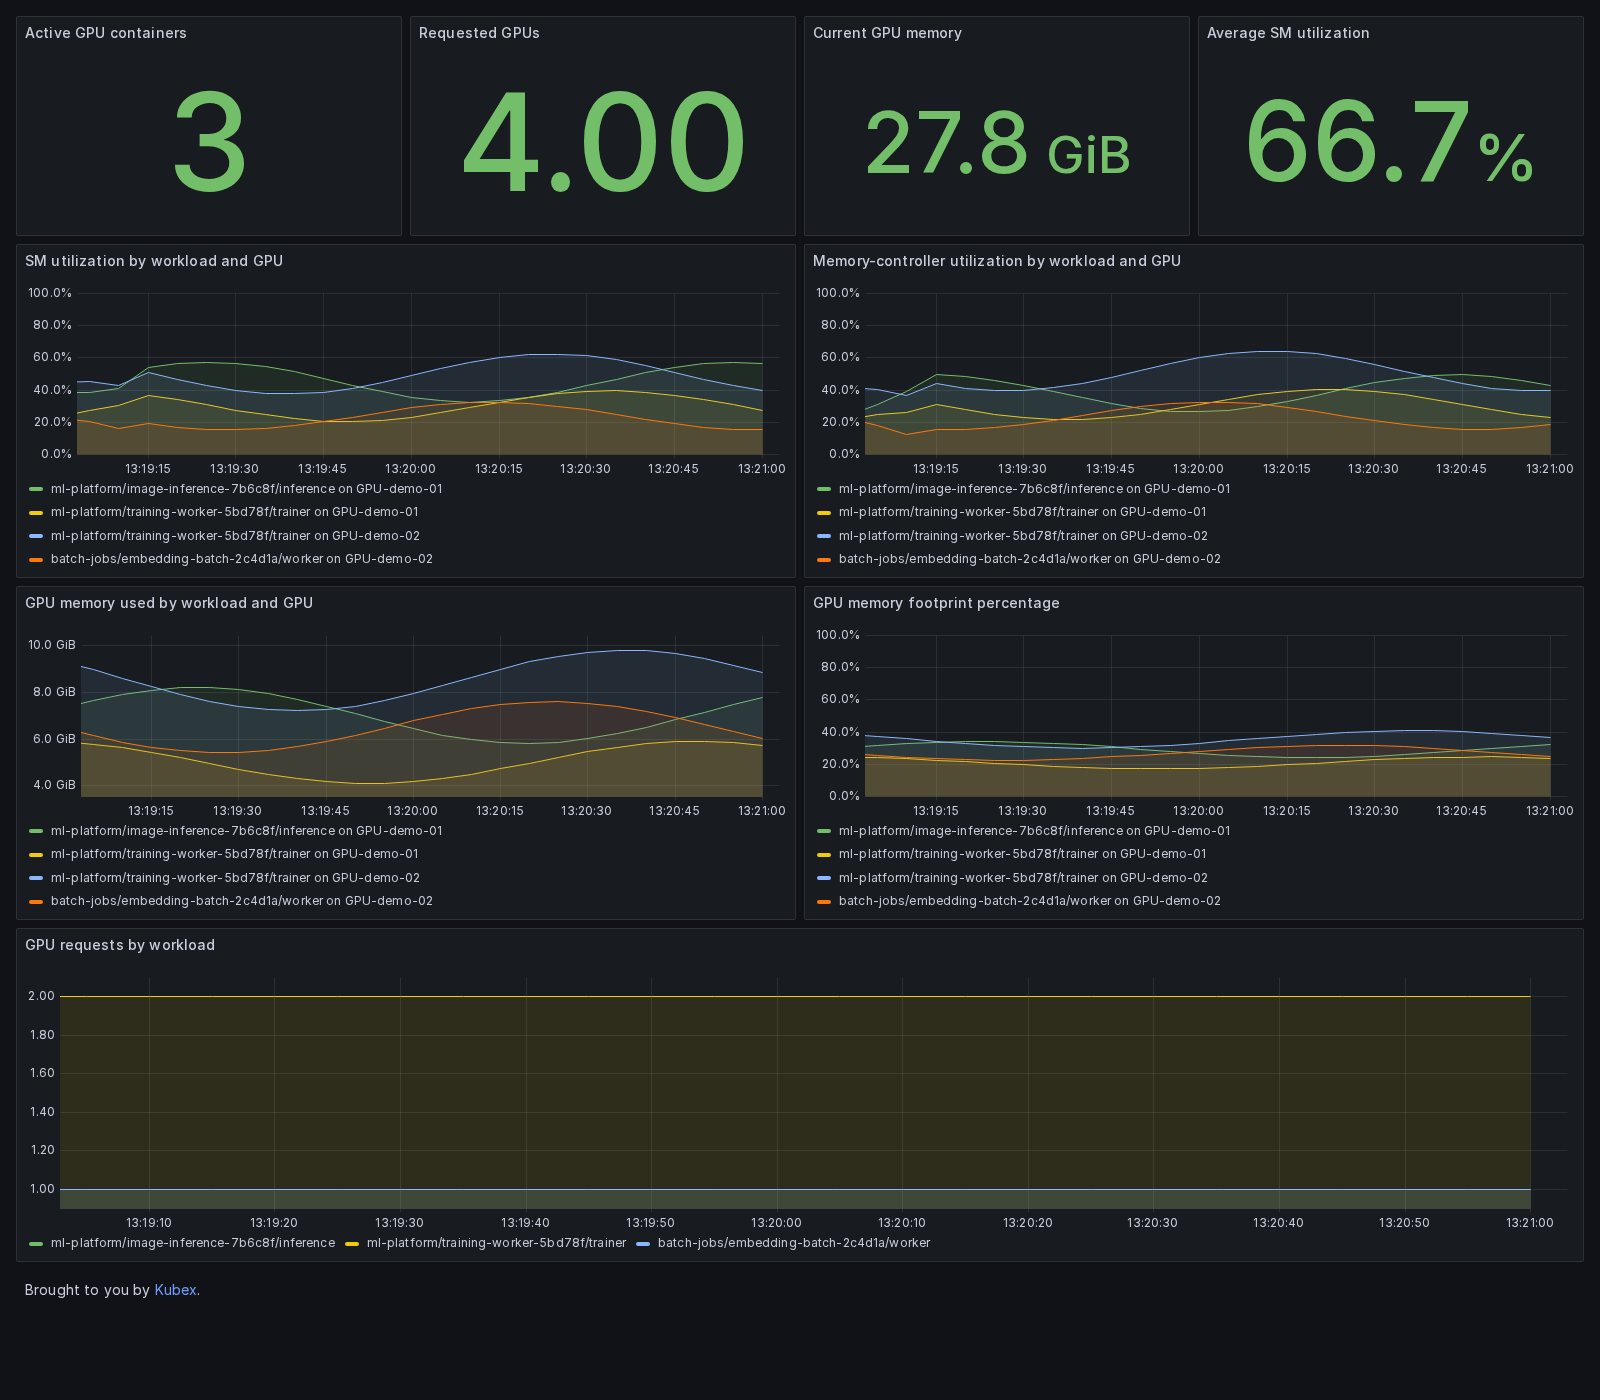
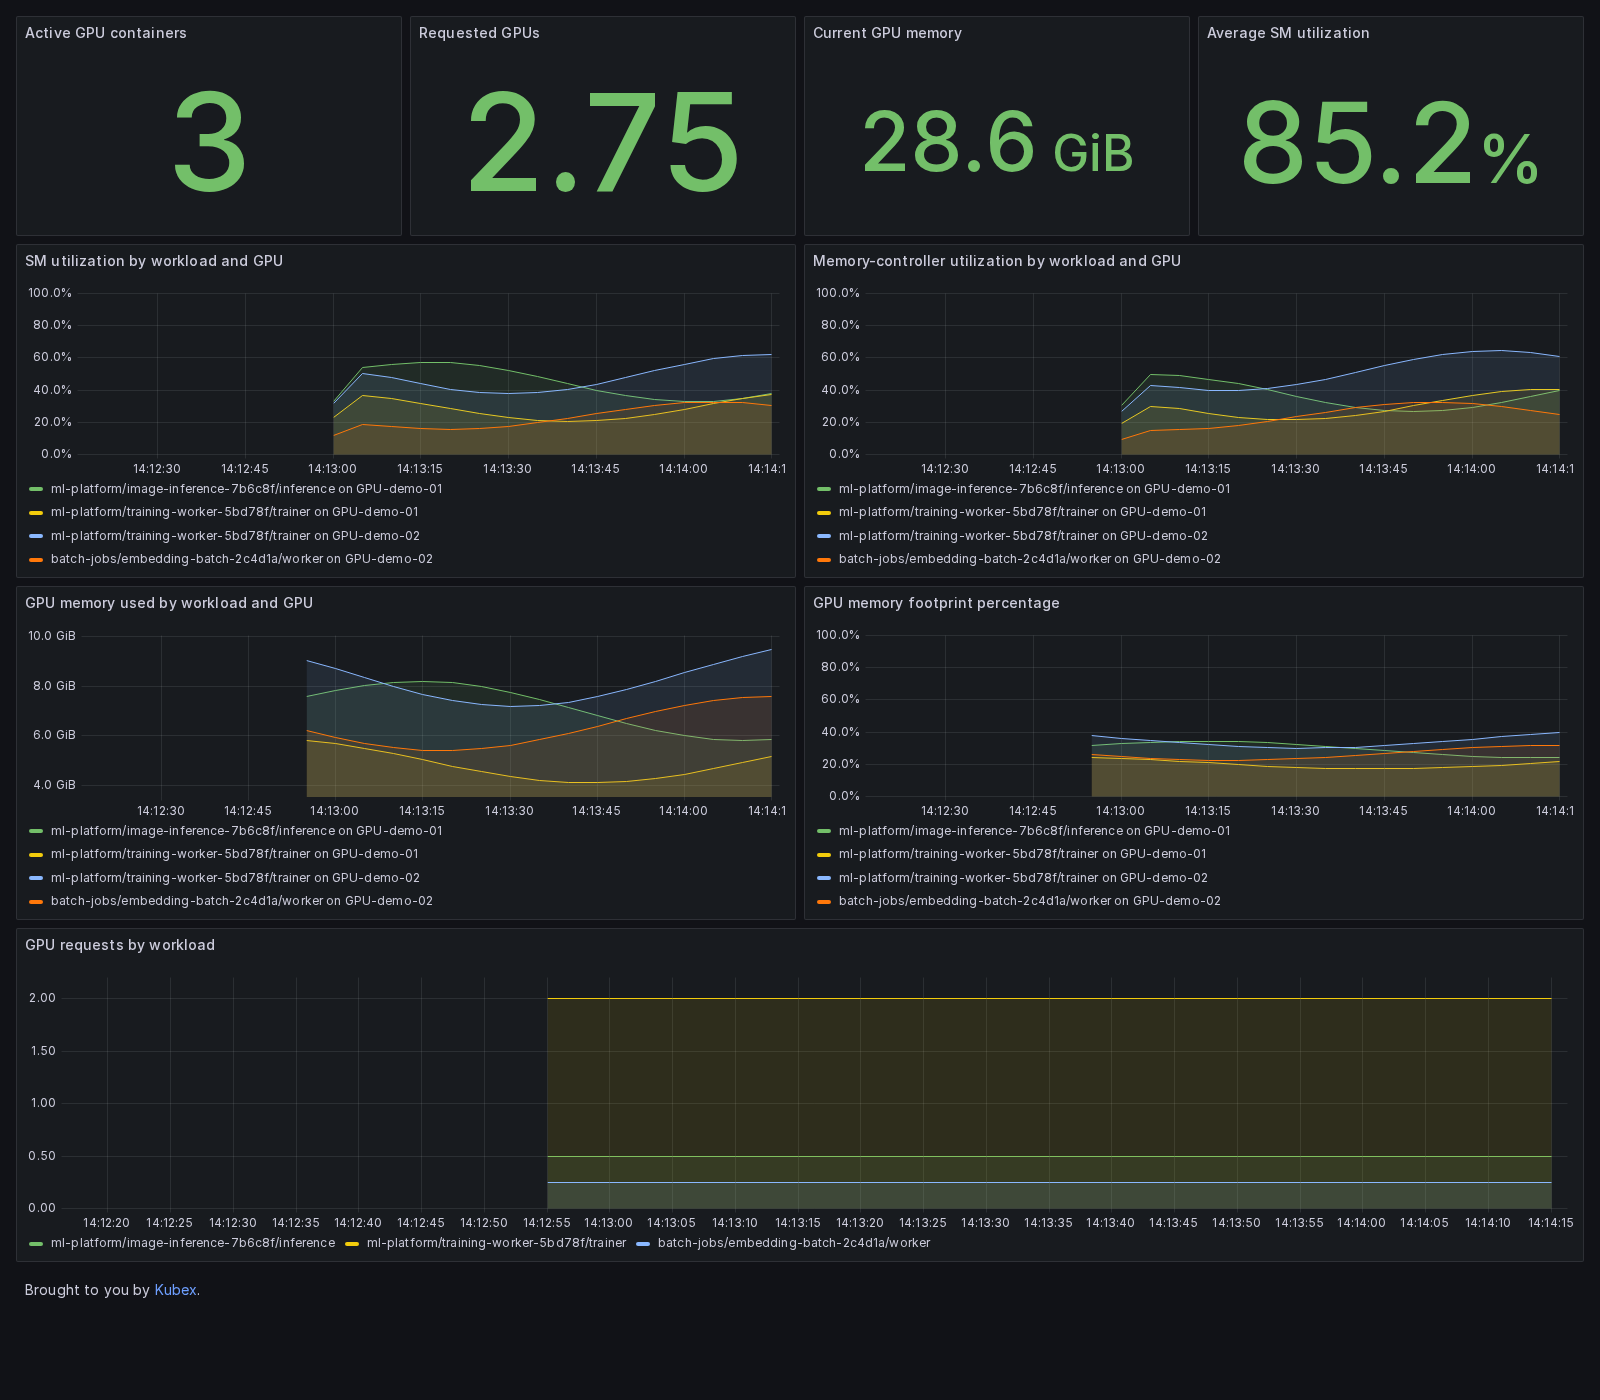
feat: show fractional GPU requests in demo

diff --git a/grafana/demo/metrics.py b/grafana/demo/metrics.py
@@ -24,8 +24,8 @@ WORKLOADS = (
         "pod": "image-inference-7b6c8f",
         "container": "inference",
         "container_id": "containerd://demo-inference",
-        "gpu_allocation_type": "exclusive",
-        "requests": 1,
+        "gpu_allocation_type": "KaiScheduler",
+        "requests": 0.5,
         "devices": (
             {**GPU_1, "memory_base_gib": 7.0, "memory_swing_gib": 1.2, "phase": 0.2, "sm": (45, 13), "memory_util": (38, 12)},
         ),
@@ -36,8 +36,8 @@ WORKLOADS = (
         "pod": "training-worker-5bd78f",
         "container": "trainer",
         "container_id": "containerd://demo-trainer",
-        "gpu_allocation_type": "exclusive",
-        "requests": 2,
+        "gpu_allocation_type": "K8sResource",
+        "requests": 2.0,
         "devices": (
             {**GPU_1, "memory_base_gib": 5.0, "memory_swing_gib": 0.9, "phase": 1.7, "sm": (30, 10), "memory_util": (31, 10)},
             {**GPU_2, "memory_base_gib": 8.5, "memory_swing_gib": 1.3, "phase": 2.4, "sm": (50, 13), "memory_util": (52, 13)},
@@ -49,8 +49,8 @@ WORKLOADS = (
         "pod": "embedding-batch-2c4d1a",
         "container": "worker",
         "container_id": "containerd://demo-embedding",
-        "gpu_allocation_type": "shared",
-        "requests": 1,
+        "gpu_allocation_type": "KaiScheduler",
+        "requests": 0.25,
         "devices": (
             {**GPU_2, "memory_base_gib": 6.5, "memory_swing_gib": 1.1, "phase": 3.1, "sm": (24, 9), "memory_util": (24, 9)},
         ),

diff --git a/grafana/demo/README.md b/grafana/demo/README.md
@@ -1,6 +1,6 @@
 # Local Grafana demo
 
-This stack shows the GPU Process Exporter dashboard with synthetic metrics for three workloads on two GPUs. It needs Docker Compose v2, but no NVIDIA hardware or Kubernetes cluster.
+This stack shows the GPU Process Exporter dashboard with synthetic metrics for three workloads on two GPUs, including fractional GPU requests. It needs Docker Compose v2, but no NVIDIA hardware or Kubernetes cluster.
 
 ## Start the demo
 
